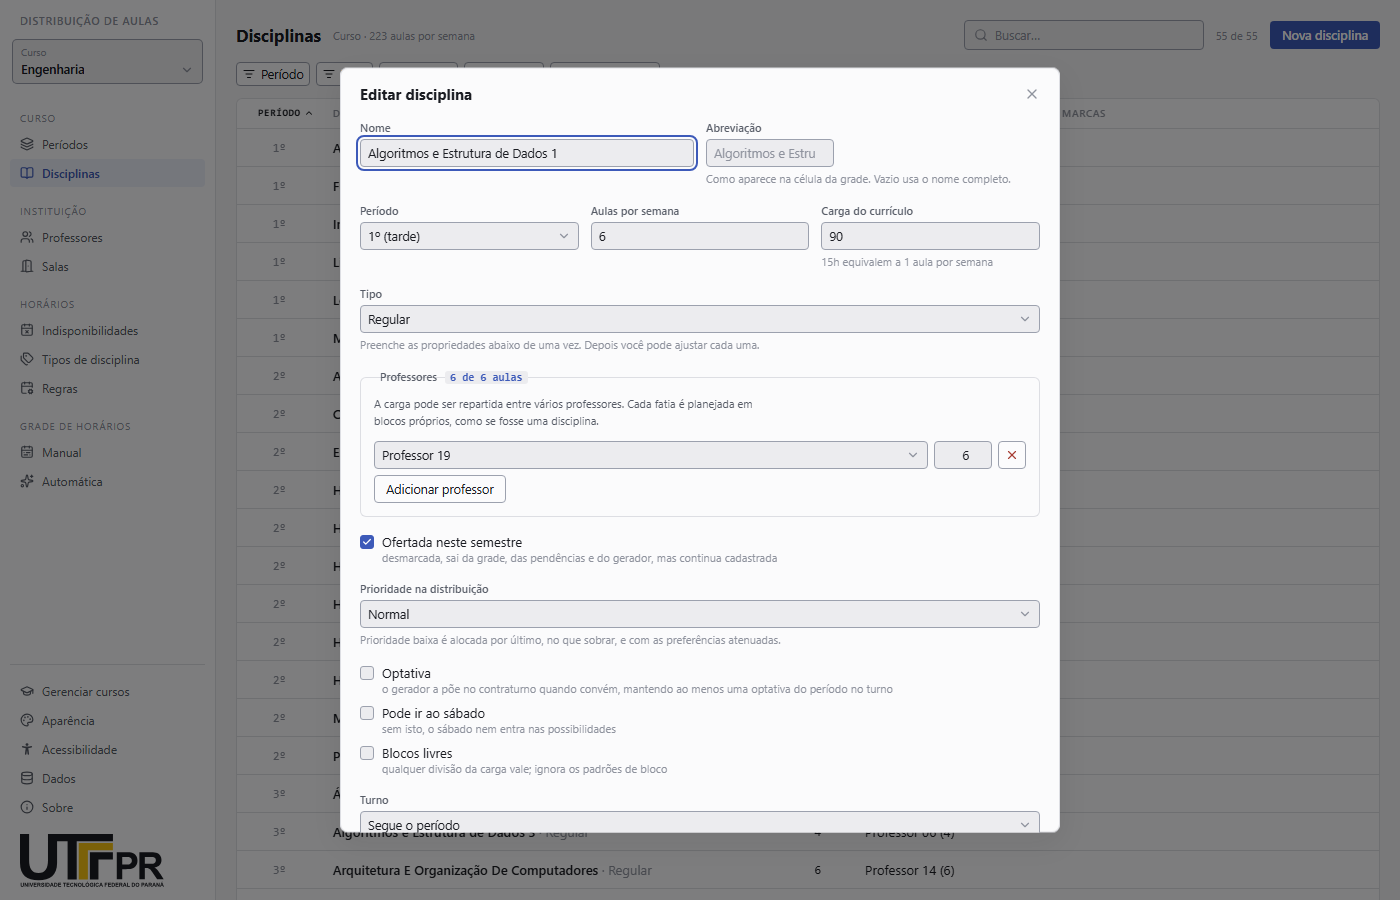
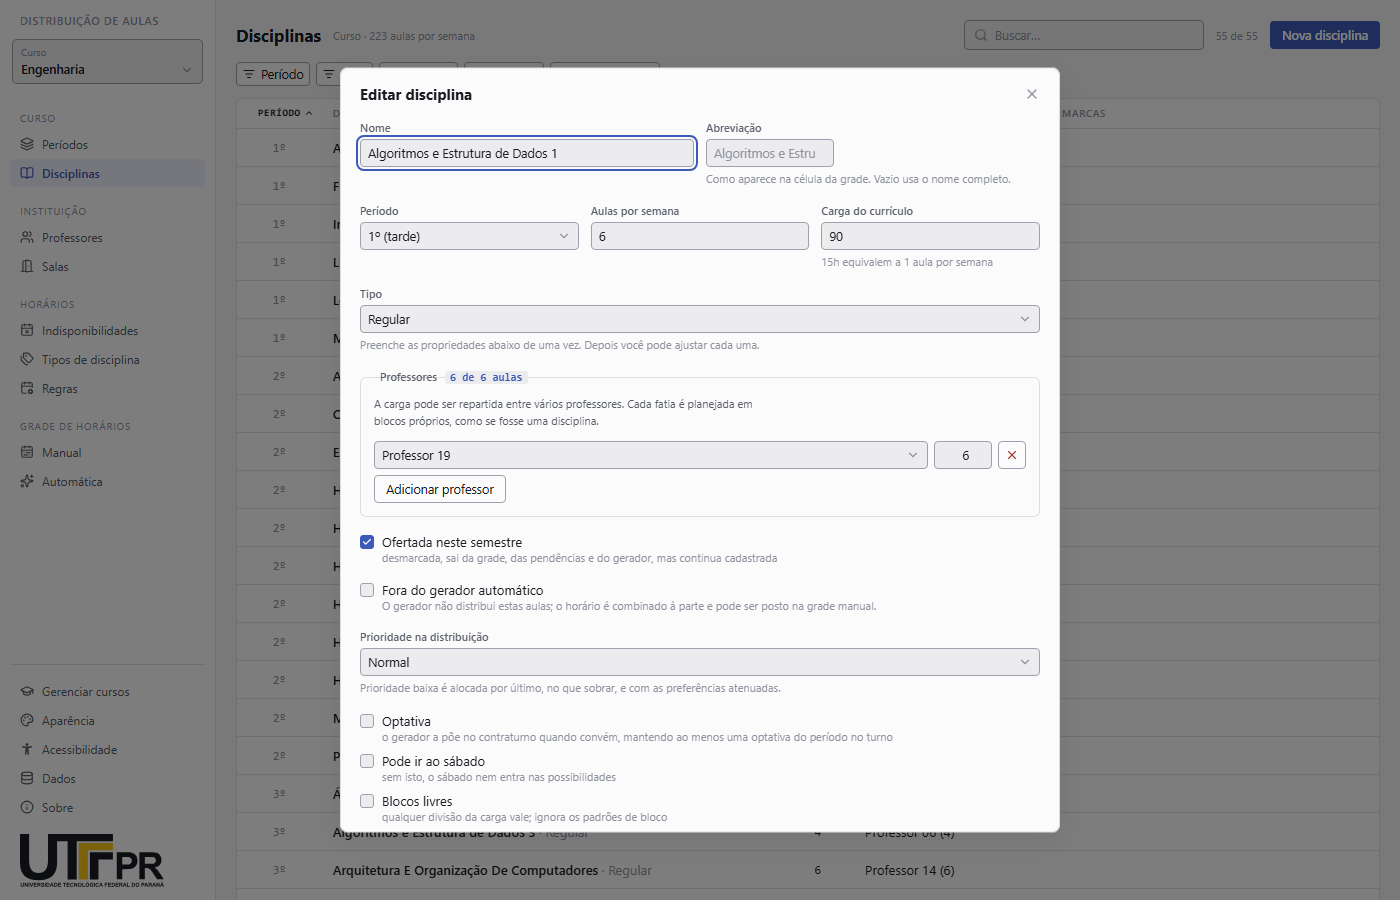
Disciplinas: marca "fora do gerador automático"
Disciplinas como o Projeto Integrador têm reuniões combinadas à parte. Com a
marca, o gerador não distribui as aulas delas; as que já estiverem na grade
entram como fixas (o gerador trabalha em volta e elas sobrevivem ao aplicar),
e a disciplina segue nas pendências da grade manual.

- Migração 011 (`disciplinas.fora_do_gerador`), registrada no navegador e no desktop.
- Caixa no editor de disciplina e etiqueta na lista.
- Carregador, aplicação da grade e auditor cientes da marca.
- Cenário de benchmark "massa real, PI fora do gerador": v2 em 24–32 pontos
  (v1: 88–190), sem violações.

Changed region(s): [[0.2457, 0.6533, 0.645, 0.9333]]

diff --git a/testes/e2e/gerador.spec.ts b/testes/e2e/gerador.spec.ts
@@ -4,7 +4,7 @@ import { conferir } from "../../src/solver/conferir";
 import { DIAS } from "../../src/tipos";
 import { lerAlocacoes, lerDe } from "../suporte/banco";
 import { expect, test } from "./fixtures";
-import { celula, contar, escolher, gerarEAplicar, irPara, responderConfirmacoes } from "./paginas";
+import { celula, contar, escolher, gerarEAplicar, irPara, linhaCom, responderConfirmacoes } from "./paginas";
 
 const umaLinha = <T,>(banco: DatabaseSync, sql: string, ...params: (number | string)[]) => {
   const linha = banco.prepare(sql).get(...params);
@@ -52,6 +52,42 @@ test("aula fixada com o botão direito sobrevive à geração", async ({ page, b
     ),
   ).toBe(1);
   expect(conferir(await carregarProblema(1, lerDe(banco)), lerAlocacoes(banco, 1))).toEqual([]);
+});
+
+test.describe("disciplina fora do gerador", () => {
+  test.use({
+    semMassa: true,
+    semente: `
+      INSERT INTO periodos (curso_id, numero, turno) VALUES (1, 1, 'manha');
+      INSERT INTO professores (id, nome) VALUES (1, 'Ana Souza'), (2, 'Bruno Lima');
+      INSERT INTO disciplinas (id, curso_id, nome, periodo, aulas_semanais, exige_sala) VALUES
+        (1, 1, 'Projeto', 1, 2, 0), (2, 1, 'Cálculo', 1, 2, 0);
+      INSERT INTO disciplina_professores (disciplina_id, professor_id, aulas) VALUES (1, 1, 2), (2, 2, 2);`,
+  });
+
+  test("a aula manual fica no mesmo lugar ao gerar e aplicar", async ({ page, banco }) => {
+    await responderConfirmacoes(page);
+    await irPara(page, "Disciplinas");
+    await linhaCom(page, "Projeto").getByRole("button", { name: "Editar" }).click();
+    await page.getByRole("checkbox", { name: /Fora do gerador automático/ }).check();
+    await page.getByRole("button", { name: "Salvar" }).click();
+    await expect.poll(() => contar(banco, "SELECT fora_do_gerador FROM disciplinas WHERE id = 1")).toBe(1);
+
+    await irPara(page, "Manual");
+    await page.getByRole("button", { name: /Projeto/ }).click();
+    await celula(page, "Segunda", "M1").click();
+    await expect.poll(() => contar(banco, "SELECT COUNT(*) FROM alocacoes WHERE disciplina_id = 1")).toBe(1);
+    const aulaAntes = umaLinha<{ dia: number; hora: number; fixada: number }>(
+      banco,
+      "SELECT dia, hora, fixada FROM alocacoes WHERE disciplina_id = 1",
+    );
+
+    await irPara(page, "Automática");
+    await gerarEAplicar(page);
+    expect(umaLinha(banco, "SELECT dia, hora, fixada FROM alocacoes WHERE disciplina_id = 1")).toEqual(aulaAntes);
+    expect(contar(banco, "SELECT COUNT(*) FROM alocacoes WHERE disciplina_id = 1")).toBe(1);
+    expect(conferir(await carregarProblema(1, lerDe(banco)), lerAlocacoes(banco, 1))).toEqual([]);
+  });
 });
 
 test("indisponibilidade marcada por arrasto é respeitada pelo gerador", async ({ page, banco }) => {

diff --git a/src/paginas/disciplinas/salvar.ts b/src/paginas/disciplinas/salvar.ts
@@ -49,6 +49,7 @@ export const novo = (cursoId: number, periodo: number): Rascunho => ({
   turno: null,
   optativa: 0,
   ofertada: 1,
+  fora_do_gerador: 0,
   exige_sala: 1,
   tipo_sala: null,
   blocos_livres: 0,
@@ -428,6 +429,7 @@ export function montarInstrucoes(
     d.turno,
     d.optativa,
     d.ofertada,
+    d.fora_do_gerador,
     d.exige_sala,
     d.tipo_sala,
     d.blocos_livres,
@@ -443,7 +445,7 @@ export function montarInstrucoes(
       ? {
           sql: `UPDATE disciplinas SET curso_id = ?, nome = ?, abreviacao = ?,
                            tipo_id = ?, periodo = ?, aulas_semanais = ?,
-                           permite_sabado = ?, turno = ?, optativa = ?, ofertada = ?,
+                           permite_sabado = ?, turno = ?, optativa = ?, ofertada = ?, fora_do_gerador = ?,
                            exige_sala = ?, tipo_sala = ?, blocos_livres = ?,
                            prioridade = ?, observacao = ?
                       WHERE id = ?`,
@@ -452,9 +454,9 @@ export function montarInstrucoes(
       : {
           sql: `INSERT INTO disciplinas (curso_id, nome, abreviacao, tipo_id,
                            periodo, aulas_semanais, permite_sabado, turno,
-                           optativa, ofertada, exige_sala, tipo_sala, blocos_livres,
+                           optativa, ofertada, fora_do_gerador, exige_sala, tipo_sala, blocos_livres,
                            prioridade, observacao, id)
-                    VALUES (?, ?, ?, ?, ?, ?, ?, ?, ?, ?, ?, ?, ?, ?, ?, ?)`,
+                    VALUES (?, ?, ?, ?, ?, ?, ?, ?, ?, ?, ?, ?, ?, ?, ?, ?, ?)`,
           params: [...campos, id],
         },
 

diff --git a/src/solver/carregar.ts b/src/solver/carregar.ts
@@ -51,7 +51,7 @@ export async function carregarProblema(cursoId: number, ler: Leitor = consultar)
               d.prioridade, d.blocos_livres
          FROM disciplina_professores dp
          JOIN disciplinas d ON d.id = dp.disciplina_id
-        WHERE d.curso_id = ? AND d.ofertada = 1`,
+        WHERE d.curso_id = ? AND d.ofertada = 1 AND d.fora_do_gerador = 0`,
       [cursoId],
     )
   ).map((r) => ({
@@ -109,7 +109,10 @@ export async function carregarProblema(cursoId: number, ler: Leitor = consultar)
 
   const externas = (await ler<Linha>(`SELECT ${colunas} FROM alocacoes WHERE curso_id <> ?`, [cursoId])).map(aula);
   const fixadas: Alocacao[] = (
-    await ler<Linha>(`SELECT ${colunas} FROM alocacoes WHERE curso_id = ? AND fixada = 1`, [cursoId])
+    await ler<Linha>(`SELECT ${colunas} FROM alocacoes a
+      WHERE curso_id = ? AND (fixada = 1 OR disciplina_id IN (
+        SELECT id FROM disciplinas WHERE curso_id = ? AND fora_do_gerador = 1
+      ))`, [cursoId, cursoId])
   ).map((a) => ({
     periodo: a.periodo,
     dia: a.dia,
@@ -118,6 +121,13 @@ export async function carregarProblema(cursoId: number, ler: Leitor = consultar)
     professorId: a.professor_id,
     salaId: a.sala_id,
   }));
+
+  const foraDoGerador = (
+    await ler<{ id: number }>(
+      "SELECT id FROM disciplinas WHERE curso_id = ? AND fora_do_gerador = 1",
+      [cursoId],
+    )
+  ).map((d) => d.id);
 
   return {
     cursoId,
@@ -133,5 +143,6 @@ export async function carregarProblema(cursoId: number, ler: Leitor = consultar)
     turnosDoCurso: ctx.turnosDoCurso,
     externas,
     fixadas,
+    foraDoGerador,
   };
 }

diff --git a/src/solver/carregar.test.ts b/src/solver/carregar.test.ts
@@ -20,6 +20,18 @@ describe("carregarProblema", () => {
     expect(p.fatias.every((f) => f.ofertada)).toBe(true);
   });
 
+  it("deixa fora as fatias marcadas e trata suas aulas existentes como fixadas", async () => {
+    const db = criarBanco();
+    const d = db.prepare("SELECT id FROM disciplinas WHERE curso_id = 1 ORDER BY id LIMIT 1").get() as { id: number };
+    const fatia = db.prepare("SELECT professor_id FROM disciplina_professores WHERE disciplina_id = ?").get(d.id) as { professor_id: number };
+    db.prepare("UPDATE disciplinas SET fora_do_gerador = 1 WHERE id = ?").run(d.id);
+    db.prepare(`INSERT INTO alocacoes (curso_id, periodo, dia, hora, disciplina_id, professor_id, fixada)
+      VALUES (1, 1, 0, 0, ?, ?, 0)`).run(d.id, fatia.professor_id);
+    const p = await carregarProblema(1, lerDe(db));
+    expect(p.fatias.some((f) => f.disciplinaId === d.id)).toBe(false);
+    expect(p.fixadas).toContainEqual({ periodo: 1, dia: 0, hora: 0, disciplinaId: d.id, professorId: fatia.professor_id, salaId: null });
+  });
+
   it("traz as aulas dos outros cursos e a preferência de sala", async () => {
     const db = criarBanco();
     const { id: d } = db.prepare("SELECT id FROM disciplinas WHERE curso_id = 1 AND exige_sala = 1 ORDER BY id LIMIT 1").get() as {

diff --git a/src/paginas/GradeAutomatica.tsx b/src/paginas/GradeAutomatica.tsx
@@ -235,7 +235,7 @@ export default function GradeAutomatica({
           titulo: "Substituir a grade atual pela gerada?",
           descricao:
             `${carga.atual.length} aula(s) hoje → ${resultado.alocacoes.length} aula(s).` +
-            (fixadas ? ` As ${fixadas} aula(s) fixadas são preservadas.` : ""),
+            (fixadas ? ` As ${fixadas} aula(s) protegidas pela grade atual são preservadas.` : ""),
           confirmar: "Aplicar a grade",
         }))
       )
@@ -247,8 +247,9 @@ export default function GradeAutomatica({
         // As fixadas ficam: elas já constam do resultado e apagá-las junto
         // faria o INSERT seguinte recriá-las, perdendo a marca de fixada.
         {
-          sql: "DELETE FROM alocacoes WHERE curso_id = ? AND fixada = 0",
-          params: [cursoId],
+          sql: `DELETE FROM alocacoes WHERE curso_id = ? AND fixada = 0
+                AND disciplina_id NOT IN (SELECT id FROM disciplinas WHERE curso_id = ? AND fora_do_gerador = 1)`,
+          params: [cursoId, cursoId],
         },
         ...resultado.alocacoes
           .filter(

diff --git a/src/paginas/disciplinas/colunas.test.ts b/src/paginas/disciplinas/colunas.test.ts
@@ -22,18 +22,19 @@ describe("marcasDe", () => {
 
   // O texto é a chave de ordenação da coluna: a ordem das marcas é o que põe
   // juntas as disciplinas com o mesmo comportamento.
-  it("as marcas saem sempre na mesma ordem: oferta, sala, blocos, sábado, turno, prioridade", () => {
+  it("as marcas saem sempre na mesma ordem: oferta, sala, blocos, gerador, sábado, turno, prioridade", () => {
     const todas = linha({
       ofertada: 0,
       exige_sala: 0,
       tipo_sala: "Laboratório",
       n_salas: 2,
       blocos_livres: 1,
+      fora_do_gerador: 1,
       permite_sabado: 1,
       turno: "tarde",
       prioridade: 1,
     });
-    expect(marcasDe(todas)).toBe("não ofertada · sem sala · só Laboratório · 2 sala(s) · livre · sábado · tarde · prio. alta");
+    expect(marcasDe(todas)).toBe("não ofertada · sem sala · só Laboratório · 2 sala(s) · livre · fora do gerador · sábado · tarde · prio. alta");
     expect(marcasDe(linha({ prioridade: 3, permite_sabado: 1 }))).toBe("sábado · prio. baixa");
   });
 });

diff --git a/src/solver/conferir.ts b/src/solver/conferir.ts
@@ -93,6 +93,10 @@ export function conferir(problema: Problema, alocacoes: Alocacao[]): Violacao[] 
       add("indisponivel", `professor ${a.professorId} indisponível em ${a.dia}:${a.hora}`);
     const f = fatias.get(chaveFatia(a));
     if (!f) {
+      // A aula marcada para fora do gerador fica em `fixadas` mesmo sem fatia
+      // no problema. Ainda conferimos choques e ocupações acima, mas não há
+      // carga automática nem requisito de bloco a auditar para ela.
+      if (problema.foraDoGerador.includes(a.disciplinaId)) continue;
       add("contagem", `aula sem fatia correspondente (${chaveFatia(a)})`);
       continue;
     }

diff --git a/src/solver/conferir.test.ts b/src/solver/conferir.test.ts
@@ -117,6 +117,14 @@ describe("conferir", () => {
     expect(conferir(p, fixadas)).toEqual([]);
   });
 
+  it("só aceita aula sem fatia quando a disciplina está marcada fora da geração", () => {
+    const alocada = aula(0, 0, { disciplinaId: 9 });
+    expect(tipos(conferir(problemaMinimo({ fixadas: [alocada] }), [alocada]))).toEqual(["contagem"]);
+    expect(
+      conferir(problemaMinimo({ fixadas: [alocada], foraDoGerador: [9] }), [alocada]),
+    ).toEqual([]);
+  });
+
   it("não acusa fatia sem nenhuma aula (completude é do Resultado)", () => {
     expect(conferir(problemaMinimo({ fatias: [fatia()] }), [])).toEqual([]);
   });

diff --git a/src/banco/migracoes.test.ts b/src/banco/migracoes.test.ts
@@ -24,6 +24,7 @@ const DO_DESKTOP: Record<number, string> = {
[4 lines of base64/hex data omitted]
 };
 
 const hex = (b: Uint8Array) => Array.from(b, (x) => x.toString(16).padStart(2, "0")).join("").toUpperCase();

diff --git a/src/paginas/disciplinas/EditorDisciplina.tsx b/src/paginas/disciplinas/EditorDisciplina.tsx
@@ -312,6 +312,13 @@ export function EditorDisciplina({
         aoMudar={() => aoMudar({ ...valor, ofertada: valor.ofertada ? 0 : 1 })}
       />
 
+      <Marcador
+        rotulo="Fora do gerador automático"
+        descricao="O gerador não distribui estas aulas; o horário é combinado à parte e pode ser posto na grade manual."
+        marcado={!!valor.fora_do_gerador}
+        aoMudar={() => aoMudar({ ...valor, fora_do_gerador: valor.fora_do_gerador ? 0 : 1 })}
+      />
+
       <PropriedadesDisciplina valor={valor} aoMudar={(v) => aoMudar({ ...valor, ...v })} />
 
       <Campo

diff --git a/testes/navegador/banco.spec.ts b/testes/navegador/banco.spec.ts
@@ -26,7 +26,7 @@ test("abre num banco vazio, já migrado, com o curso que a migração 005 cria",
     page,
     "SELECT version, success, length(checksum) AS n FROM _sqlx_migrations ORDER BY version",
   );
-  expect(migracoes).toEqual(Array.from({ length: 10 }, (_, i) => ({ version: i + 1, success: 1, n: 48 })));
+  expect(migracoes).toEqual(Array.from({ length: 11 }, (_, i) => ({ version: i + 1, success: 1, n: 48 })));
   await expect(noBanco(page, "SELECT id, nome FROM cursos")).resolves.toEqual([{ id: 1, nome: "Curso" }]);
 });
 

diff --git a/src/paginas/disciplinas/colunas.tsx b/src/paginas/disciplinas/colunas.tsx
@@ -13,6 +13,7 @@ function marcas(l: Linha): { texto: string }[] {
     { texto: l.tipo_sala ? `só ${l.tipo_sala}` : "" },
     { texto: l.n_salas > 0 ? `${l.n_salas} sala(s)` : "" },
     { texto: l.blocos_livres ? "livre" : "" },
+    { texto: l.fora_do_gerador ? "fora do gerador" : "" },
     { texto: l.permite_sabado ? "sábado" : "" },
     { texto: l.turno ?? "" },
     { texto: l.prioridade !== 2 ? `prio. ${l.prioridade === 1 ? "alta" : "baixa"}` : "" },
